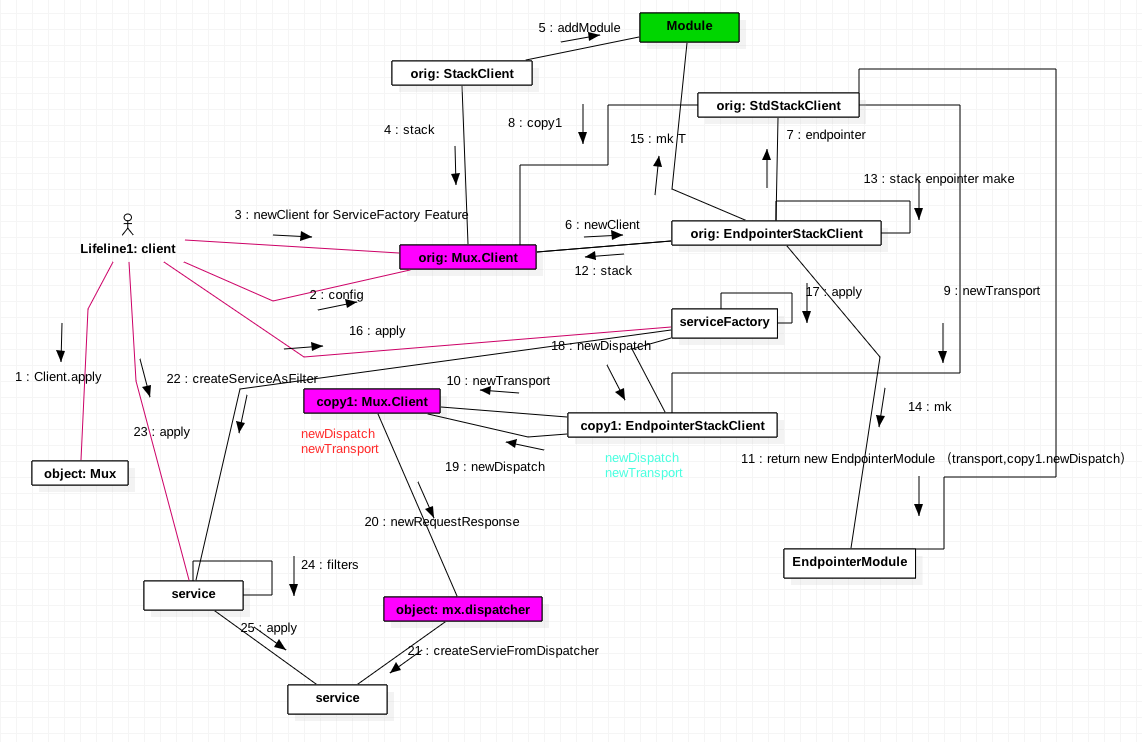
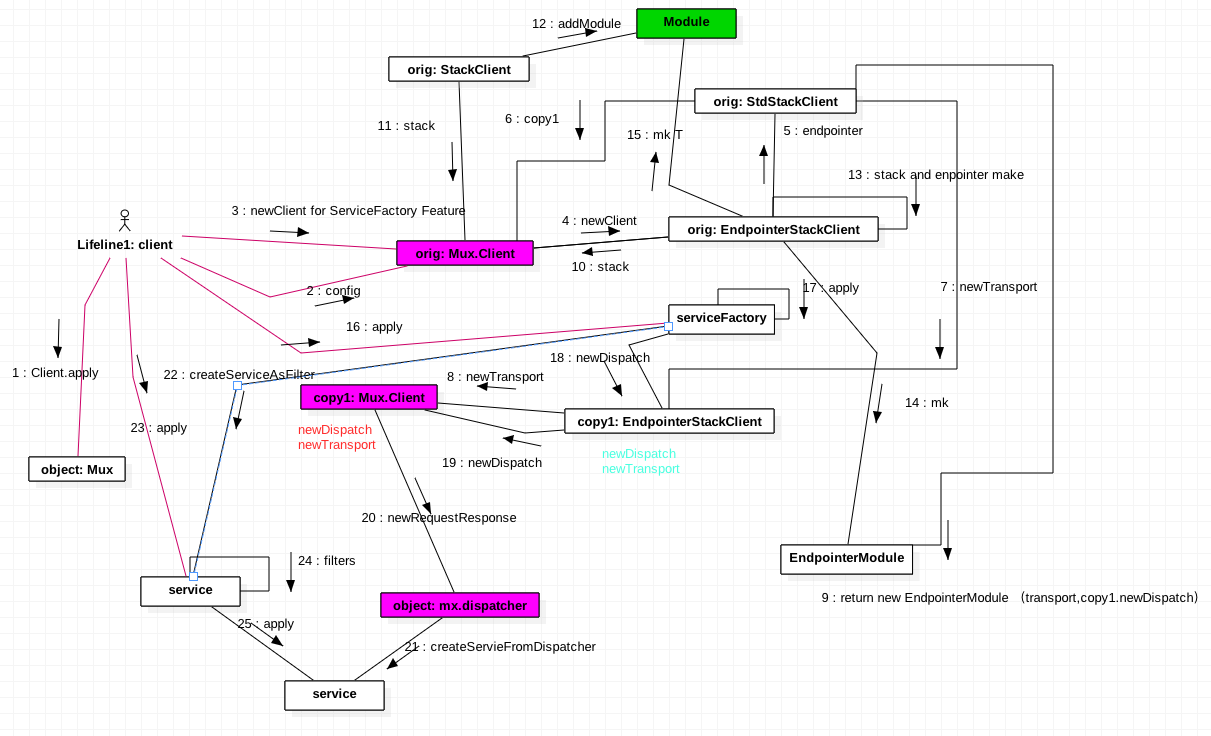
finagle -client 没有补充完整，还有问题

diff --git a/finagle/02-finagle-client.md b/finagle/02-finagle-client.md
@@ -1,8 +1,33 @@
 ## Finagle 源码分析之 Mux.client
 
 
+Finagle 客户端实现过程，这里以Mux协议为例，Http实现几乎一样。
+
+```
+The core of Finagle is protocol-agnostic, meaning its internals provide an extensible RPC subsystem without defining any details of specific client-server protocols. Thus in order to provide usable APIs for clients and servers, there are a number of Finagle subprojects that implement common protocols.
+```
+
+
 
 ![详细图](pic/mux.client.png)
 
 
- 
+Mux.Client 的 trait 的调用时序如下
+
+* 1 Mux.apply 创建新的客户端 org:Mux.Client
+* 2 org:Parameterized , orig.configure 参数配置
+* 3 orig:Mux.Client orig.newClient
+    * 4 orig:EndpointerStackClient orig.newClient
+        * 5 orig:StackClient orig.endpointer
+            * 6 orig:StackClient orig.copy1
+            * 7 copy1:EndpointerStackClient copy1.newTransport
+                *   8 copy1:Mux.Client copy1.newTransport
+            * 9 new EndpointerModule( transport, copy1.newDispatch)
+        * 10 orig:Mux.Client  copy1.stack
+            * 11 StackClient StackClient.stack
+                * 12 StackClient return new StackBuilder.addModule
+        * 13 (stack ++ endpointer).make
+
+4. StackClient.stack 返回 stack
+5. StackClient.stack 返回 stack 前调用 addModule, 加入Module
+6.
